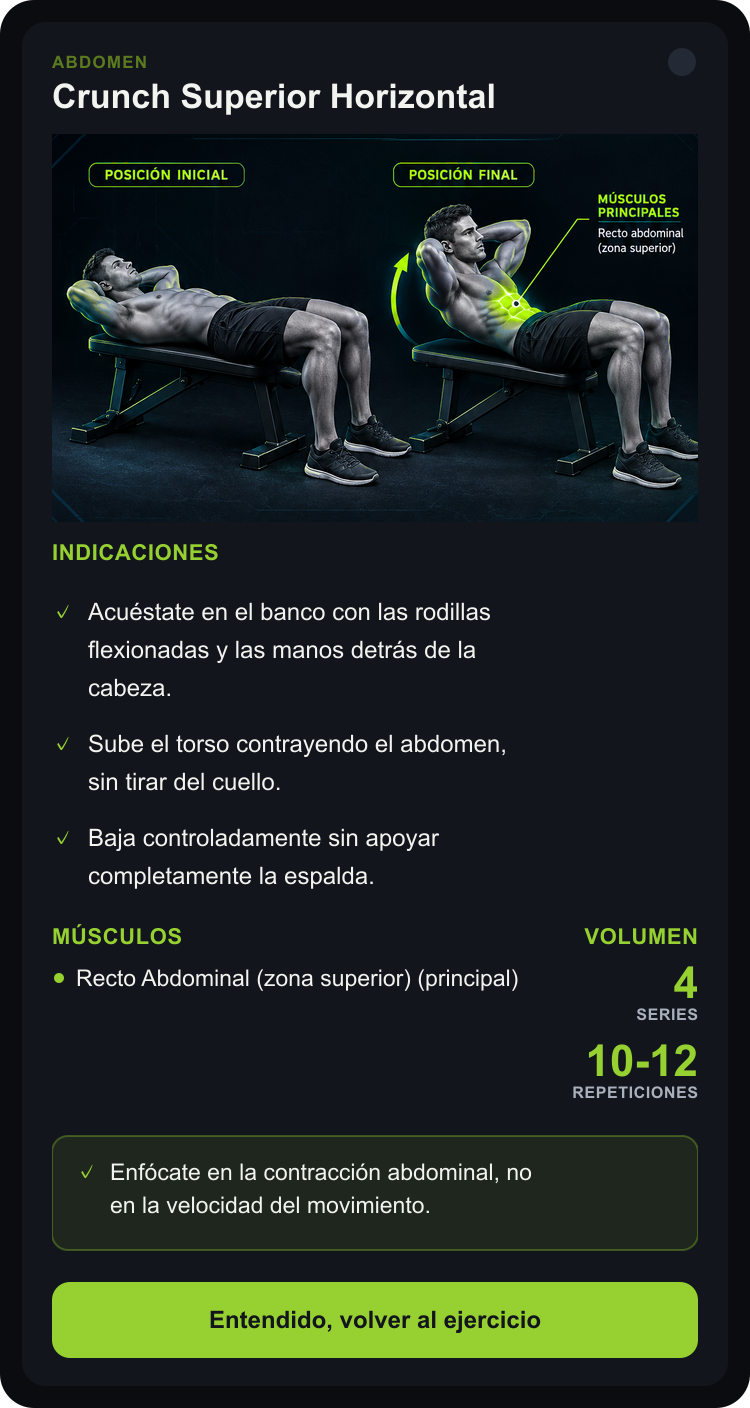
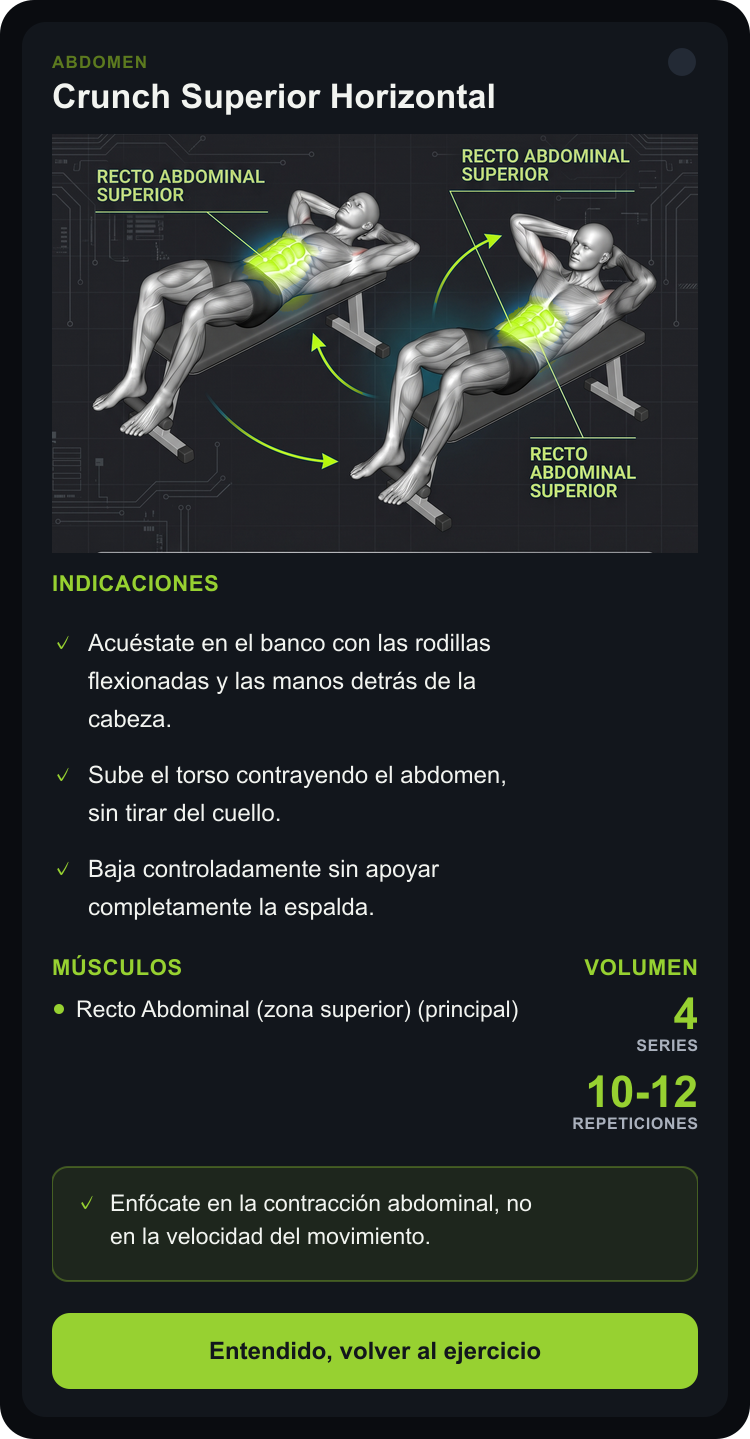
fix: unifica estilo de 3 ilustraciones + agrega elevacion de talon sentado
El usuario regenero "Crunch superior horizontal", "Curl martillo con
mancuernas" y "Elevaciones laterales con mancuernas" en el estilo anatomico
gris del resto del catalogo (las anteriores eran fotorrealistas, rompian
consistencia visual) -- reemplazadas.

Se agrega "Elevacion de talon sentado" como ejercicio NUEVO (aisla mas el
soleo que la version de pie, distinto equipo/enfoque) -- alternativa mutua
con `elevacion_talon`. La variante "sin peso" se descarta a pedido del
usuario. No se agrega a ningun dia de la rutina todavia, solo queda
disponible como alternativa.

diff --git a/lib/routine.ts b/lib/routine.ts
@@ -296,7 +296,7 @@ const CATALOGO: Record<string, Ejercicio> = {
     musculos: [{ nombre: 'Aductores', principal: true }],
     consejoTecnico: 'Pausa en el punto de contracción máxima antes de volver.',
   } },
-  elevacion_talon: { id: 'elevacion_talon', nombre: 'Elevación de talón (de pie)', grupo: 'Pierna', grupoMuscular: 'pantorrilla', imagenExplicacion: '/explicaciones/elevacion-talon.png', series: 4, reps: '10-12', descansoSeg: 45, tempo: '2-1-1', alternativaId: 'extension_cuadriceps', guia: {
+  elevacion_talon: { id: 'elevacion_talon', nombre: 'Elevación de talón (de pie)', grupo: 'Pierna', grupoMuscular: 'pantorrilla', imagenExplicacion: '/explicaciones/elevacion-talon.png', series: 4, reps: '10-12', descansoSeg: 45, tempo: '2-1-1', alternativaId: 'elevacion_talon_sentado', guia: {
     indicaciones: [
       'De pie sobre la plataforma, con los talones colgando del borde.',
       'Sube lo más alto posible apoyándote en las puntas de los pies.',
@@ -304,6 +304,19 @@ const CATALOGO: Record<string, Ejercicio> = {
     ],
     musculos: [{ nombre: 'Gastrocnemio', principal: true }, { nombre: 'Sóleo', principal: false }],
     consejoTecnico: 'Movimiento completo fluido, sin balanceo del cuerpo.',
+  } },
+  // Ejercicio nuevo (15/09/2026) — variante SENTADA: rodilla flexionada aísla
+  // más el sóleo (a diferencia de la de pie, que enfatiza el gastrocnemio).
+  // Ejercicio distinto por equipo/objetivo, no un reemplazo del de arriba.
+  elevacion_talon_sentado: { id: 'elevacion_talon_sentado', nombre: 'Elevación de talón sentado', grupo: 'Pierna', grupoMuscular: 'pantorrilla', imagenExplicacion: '/explicaciones/elevacion-talon-sentado.png', series: 4, reps: '10-12', descansoSeg: 45, tempo: '2-1-1', alternativaId: 'elevacion_talon', guia: {
+    indicaciones: [
+      'Siéntate en la máquina con la espalda apoyada en el respaldo.',
+      'Coloca las puntas de los pies en la plataforma, con los talones colgando.',
+      'Baja los talones lentamente hasta sentir el estiramiento del gemelo.',
+      'Empuja con las puntas de los pies, elevando los talones lo más alto posible.',
+    ],
+    musculos: [{ nombre: 'Gastrocnemio', principal: true }, { nombre: 'Sóleo', principal: true }],
+    consejoTecnico: 'Evita rebotar en la posición baja: controla el descenso para aprovechar todo el estiramiento del gemelo.',
   } },
   hip_thrust_barra: { id: 'hip_thrust_barra', nombre: 'Hip thrust con barra', grupo: 'Pierna', grupoMuscular: 'gluteo', imagenExplicacion: '/explicaciones/hip-thrust-barra.png', series: 4, reps: '10-12', descansoSeg: 90, tempo: '2-1-1', alternativaId: 'peso_muerto_barra', guia: {
     indicaciones: [

diff --git a/ESTADO.md b/ESTADO.md
@@ -1,10 +1,10 @@
 # ESTADO — GymEvo (nombre tentativo: Método Cero)
 Última actualización: 2026-09-15 | Sesión actual: 10 (en curso)
 
-⏸ CHECKPOINT — Las 8 ilustraciones faltantes de la Ruta Principiante: 7 de 8 completadas (15/09/2026). El usuario agregó nuevas imágenes a `C:\Users\OSCAR\Downloads\Ejercicios\` y se integraron: Zancadas con barra, Press de banco plano con mancuernas, Crossover en polea alta, Extensión de tríceps en polea alta, Jalón de pecho cerrado neutro, Crunch superior horizontal, Curl martillo con mancuernas — todas con imagen real + `guia` (indicaciones/músculos/consejo) en `lib/routine.ts`, mismo pipeline sin navegador (recolor HSL + recorte + `_tmp-card-template.js`, scripts borrados al terminar). Las tarjetas completas quedan en `docs/ilustraciones-pendientes/`.
-- **Nota de estilo**: 2 de las 7 (Crunch superior horizontal, Curl martillo) llegaron en un estilo fotorrealista (persona con piel/cabello) distinto al resto del catálogo (modelo anatómico gris transparente) — se integraron igual porque el contenido es correcto y completo, pero rompen la consistencia visual que pidió el usuario. Si se quiere unificar, hay que regenerarlas en el estilo anatómico.
-- **⚠ PENDIENTE — 1 de 8 sigue sin ilustración**: "Elevaciones laterales con mancuernas" — el usuario solo agregó la variante con CABLE (`Elevaciones laterales con cable.png`, misma familia muscular pero equipo distinto al que pide el catálogo). No se integró para no mezclar equipos sin confirmar con el usuario. Sigue mostrando el placeholder viejo (`.jpg`) sin `guia`.
-- Verificado: `tsc --noEmit` ✓ · `npm run build` ✓ · confirmado visualmente en navegador (Zancadas: cuerpos completos, sin texto duplicado, colores de marca correctos).
+⏸ CHECKPOINT — Las 8 ilustraciones faltantes de la Ruta Principiante: 8 de 8 completadas (15/09/2026). Historial: el usuario agregó imágenes a `C:\Users\OSCAR\Downloads\Ejercicios\` en 2 rondas — la primera con 7 (Zancadas, Press de banco, Crossover, Extensión tríceps polea alta, Jalón cerrado neutro, más Crunch superior y Curl martillo en estilo fotorrealista) y una variante de "Elevaciones laterales" en CABLE (equipo distinto, no se integró); luego reenvió "Elevaciones laterales con mancuernas" (correcta) y, más tarde, **regeneró Crunch superior y Curl martillo en el estilo anatómico gris** para unificar consistencia visual — las 3 quedaron reemplazadas con el estilo correcto. Todas con imagen real + `guia` (indicaciones/músculos/consejo) en `lib/routine.ts`, mismo pipeline sin navegador (recolor HSL + recorte + `_tmp-card-template.js`, scripts borrados al terminar). Las tarjetas completas quedan en `docs/ilustraciones-pendientes/`.
+- **Ya NO hay ninguna imagen del catálogo en estilo fotorrealista distinto** — las 8 ilustraciones nuevas quedaron consistentes con el modelo anatómico gris del resto.
+- **Elevación de talón — resuelto (15/09/2026)**: el usuario renombró los 2 archivos que quería conservar ("elevacion de talon de pie en maquina.png" = el que YA estaba en uso, sin cambios; "elevacion de talon sentado en maquina.png" = ejercicio NUEVO) y borró la variante "sin peso" (se descarta, no se agrega). Se creó el id nuevo `elevacion_talon_sentado` en el catálogo (aísla más el sóleo que la versión de pie) con imagen + `guia` propias; `elevacion_talon` y `elevacion_talon_sentado` ahora son alternativa uno del otro (`alternativaId`). NO se agregó a ningún día de `SPLIT_PRINCIPIANTE` (el JSON original solo pedía la versión de pie) — queda solo disponible vía "Cambiar por alternativa" hasta que el usuario pida agregarlo a un día.
+- Verificado: `tsc --noEmit` ✓ · `npm run build` ✓ · confirmado visualmente en navegador (cuerpos completos, sin texto duplicado, colores de marca correctos).
 
 ⏸ CHECKPOINT — Rutina de Ruta Principiante REEMPLAZADA por especificación exacta del usuario (JSON completo, 15/09/2026): calendario propio de 6 días (`SPLIT_PRINCIPIANTE` en `lib/routine.ts`) con nombre/calentamiento/cardio por día también propios (`NOMBRE_DIA_PRINCIPIANTE`, `CALENTAMIENTO_DIA_PRINCIPIANTE`, `CARDIO_DIA_PRINCIPIANTE`) — cardio TODOS los días de pesas (antes solo martes/jueves), igual para ambas metas (a diferencia de Intermedio). **Decisión explícita del usuario**: "que tenga barra o no no tiene nada que ver con el nivel" — se ELIMINÓ por completo la sustitución automática de ejercicios `avanzado` (sentadilla/peso muerto/press militar/remo con barra ahora se muestran TAL CUAL a Principiante, con su `guia` de técnica) y el campo `avanzado` del tipo `Ejercicio` (quedó muerto, se borró). **Ruta Intermedio NO se tocó** — sigue con el `SPLIT` "REAL FISIC" de siempre, mismo comportamiento, verificado sin diffs. Pendiente explícito: aplicar la misma actualización a Ruta Intermedio más adelante (el usuario lo pidió para después). `nombreDeHoy`/`calentamientoDeHoy`/`cardioDeHoy`/`esDiaDeRecuperacionActiva` ahora reciben `nivel` (default 'intermedio' por compatibilidad) — actualizados todos los call sites reales en `app/app/page.tsx` y `app/onboarding/plan/page.tsx`.
 - **3 ejercicios nuevos agregados al catálogo** (sin id previo): `zancadas`, `extension_triceps_polea_alta`, `curl_martillo_mancuernas` — con `guia` completa pero SIN ilustración real todavía (usan la silueta de respaldo). Faltan generarlas.
